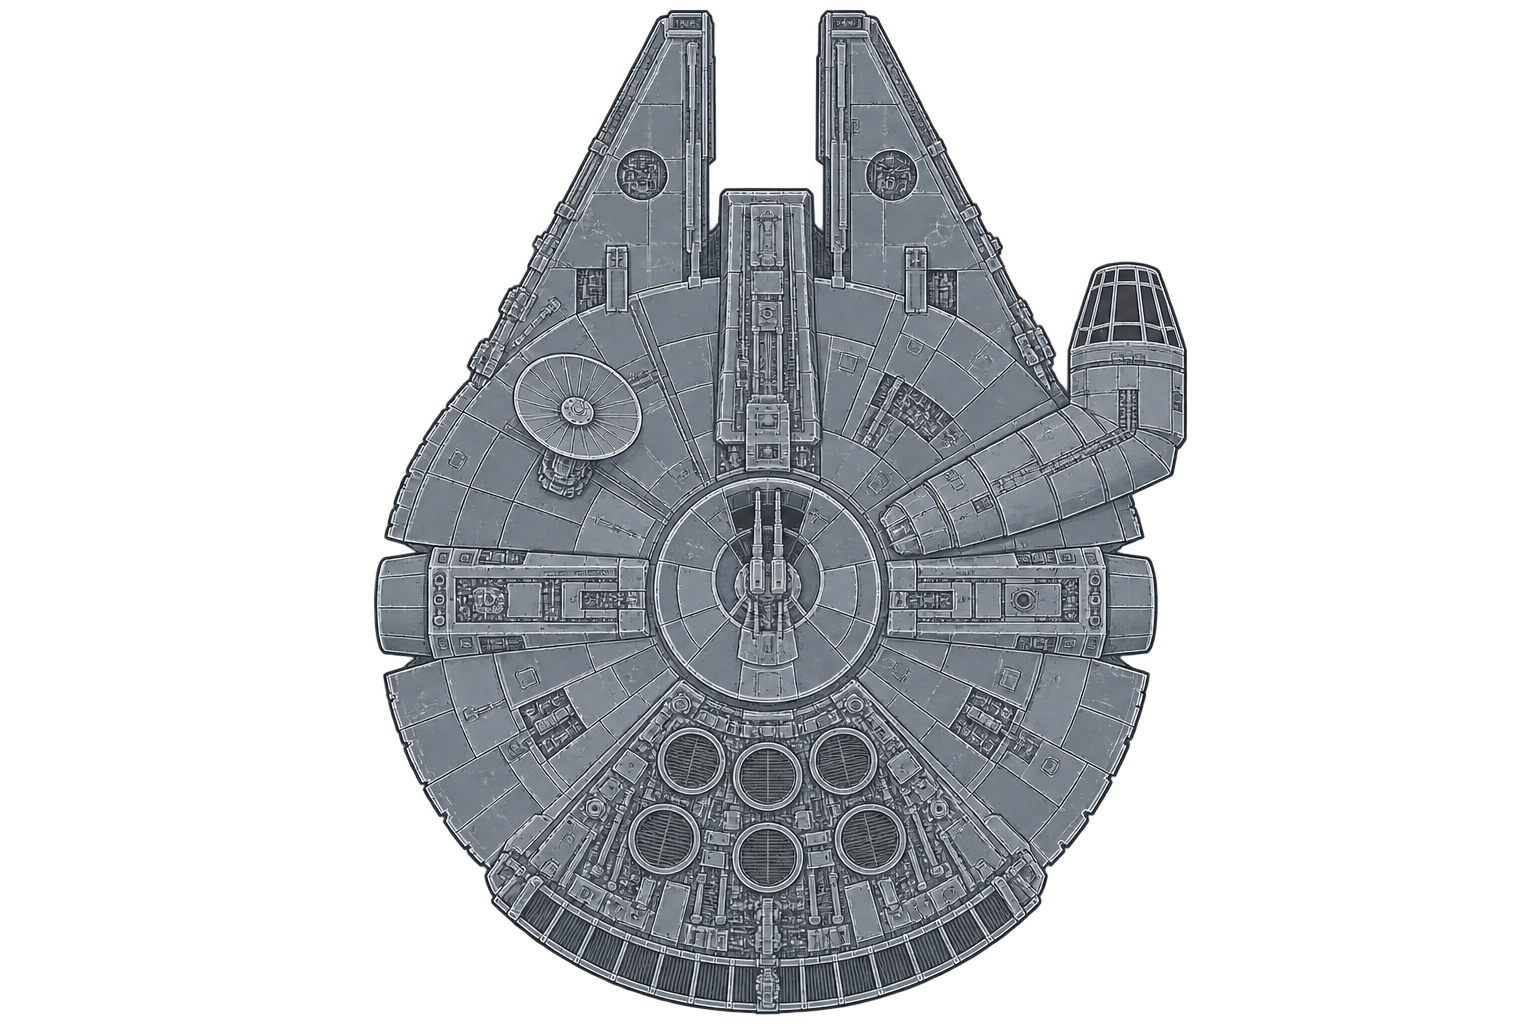
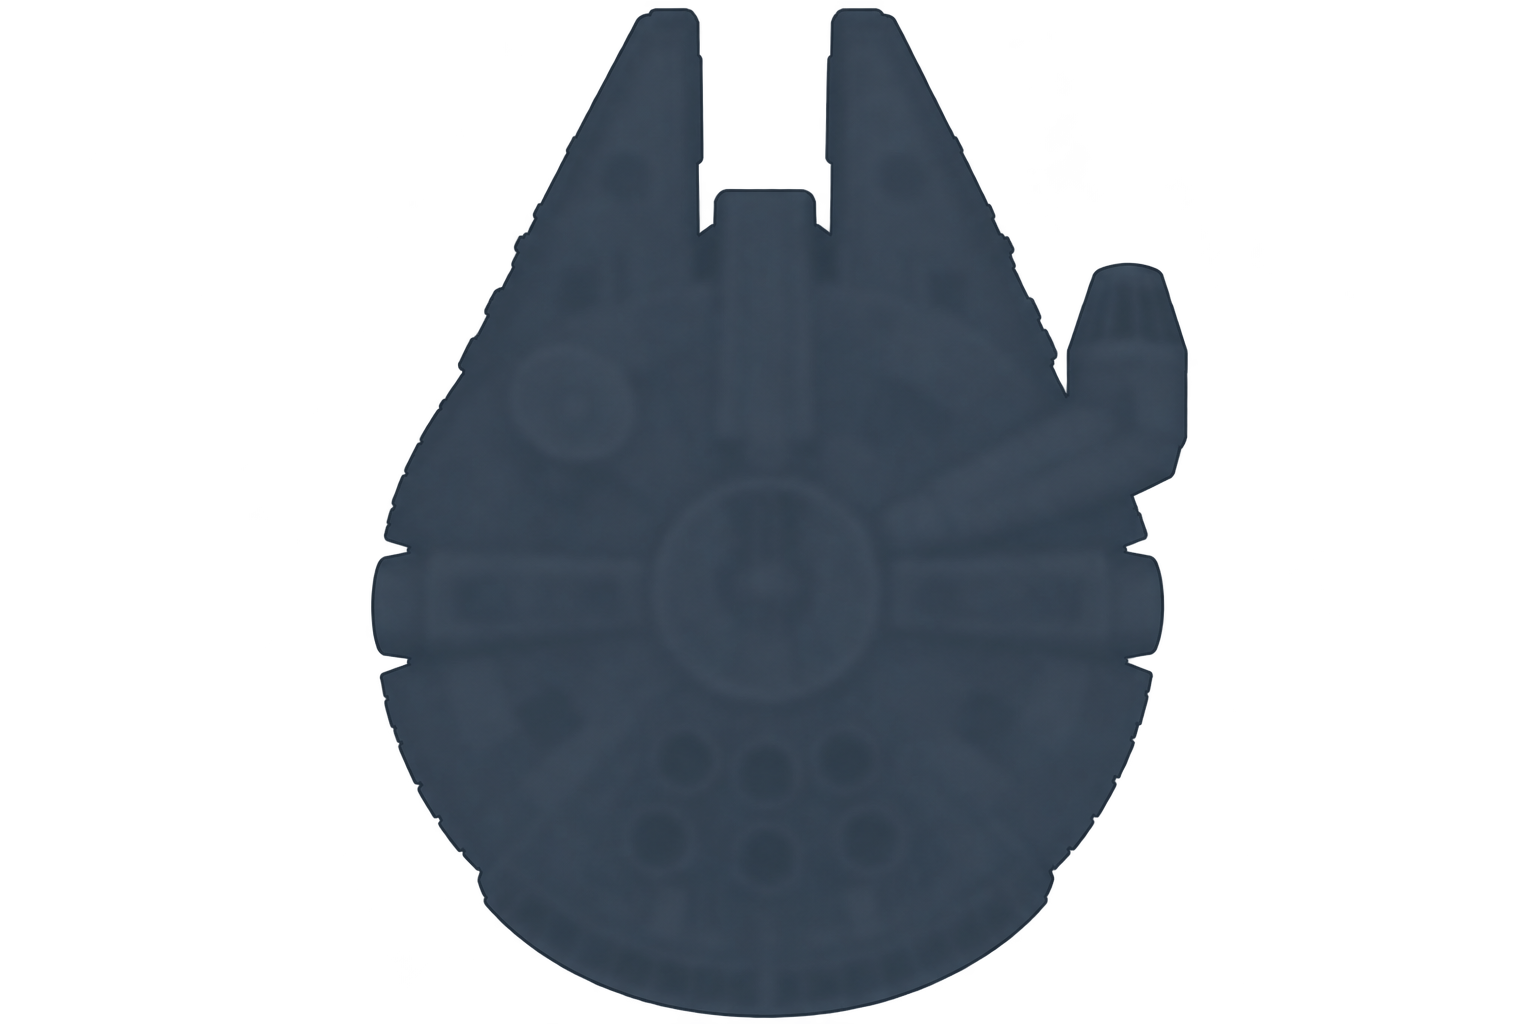
Refine Habitat outline and temperature colors

diff --git a/people/petros_the_space_larper/demo-data/habitat/habitat.js b/people/petros_the_space_larper/demo-data/habitat/habitat.js
@@ -6,6 +6,16 @@ const sensors = [
 ];
 
 const states = { normal: 'Normal', warning: 'Warning', danger: 'Danger', 'no-reading': 'No reading' };
+const temperatureScale = [
+  [16, '#8ba4ff'],
+  [19, '#6fceff'],
+  [22, '#f4e27d'],
+  [24, '#ffad63'],
+  [27, '#ff8665'],
+  [30, '#ff6d8b'],
+];
+const coldLimit = temperatureScale[0][0];
+const hotLimit = temperatureScale.at(-1)[0];
 const sessionKey = 'pulse-habitat-preview-token';
 const escape = value => String(value ?? '').replace(/[&<>"']/g, char => ({
   '&': '&amp;', '<': '&lt;', '>': '&gt;', '"': '&quot;', "'": '&#39;',
@@ -14,6 +24,28 @@ const utc = iso => iso ? iso.slice(11, 16) : '—';
 const hasValue = value => Number.isFinite(value);
 const number = (value, digits) => hasValue(value) ? value.toFixed(digits) : '—';
 const readingValue = (reading, sensor) => `${number(reading?.value, sensor.digits)}<small>${escape(reading?.unit ?? sensor.unit)}</small>`;
+
+function temperatureColor(value) {
+  if (value <= coldLimit) return temperatureScale[0][1];
+  if (value >= hotLimit) return temperatureScale.at(-1)[1];
+  const upper = temperatureScale.findIndex(([degrees]) => value <= degrees);
+  const [low, cold] = temperatureScale[upper - 1];
+  const [high, hot] = temperatureScale[upper];
+  const fraction = (value - low) / (high - low);
+  const channels = [1, 3, 5].map(offset => {
+    const start = Number.parseInt(cold.slice(offset, offset + 2), 16);
+    const end = Number.parseInt(hot.slice(offset, offset + 2), 16);
+    return Math.round(start + (end - start) * fraction);
+  });
+  return `rgb(${channels.join(' ')})`;
+}
+
+const heatStops = temperatureScale.map(([degrees, color]) => `${color} ${(degrees - coldLimit) / (hotLimit - coldLimit) * 100}%`);
+const heatLegend = `<figure class="heat-scale">
+  <figcaption>Temperature color scale</figcaption>
+  <div class="heat-scale-bar" style="background: linear-gradient(90deg, ${heatStops.join(', ')})" aria-hidden="true"></div>
+  <div class="heat-scale-labels"><span>≤ ${coldLimit} °C</span><span>${(coldLimit + hotLimit) / 2} °C</span><span>≥ ${hotLimit} °C</span></div>
+</figure>`;
 
 const sensorGroup = document.querySelector('#sensors');
 const trend = document.querySelector('#trend');
@@ -58,6 +90,11 @@ function historyChart(sensor, history, endTime) {
   const max = top + padding;
   const x = time => (46 + 311 * Math.max(0, Math.min(1, (Date.parse(time) - start) / (end - start)))).toFixed(2);
   const y = value => (111 - 96 * (value - min) / (max - min)).toFixed(2);
+  const thermal = sensor.id === 'temperature';
+  const gradientValues = [min, ...temperatureScale.map(([degrees]) => degrees).filter(degrees => degrees > min && degrees < max), max];
+  const chartGradient = thermal ? `<defs><linearGradient id="temperature-chart-gradient" gradientUnits="userSpaceOnUse" x1="0" x2="0" y1="111" y2="15" color-interpolation="sRGB">
+    ${gradientValues.map(degrees => `<stop offset="${(degrees - min) / (max - min)}" stop-color="${temperatureColor(degrees)}"/>`).join('')}
+  </linearGradient></defs>` : '';
 
   // Each null in the replay ends a segment. Isolated samples remain visible as dots.
   const segments = [];
@@ -72,14 +109,14 @@ function historyChart(sensor, history, endTime) {
   if (segment.length) segments.push(segment);
 
   const last = present.at(-1);
-  const circle = ([time, value], radius) => `<circle cx="${x(time)}" cy="${y(value)}" r="${radius}"/>`;
+  const circle = ([time, value], radius) => `<circle cx="${x(time)}" cy="${y(value)}" r="${radius}"${thermal ? ` style="fill: ${temperatureColor(value)}"` : ''}/>`;
   const trace = segments.map(part => part.length === 1 ? circle(part[0], 2.75) :
     `<path d="${part.map(([time, value], i) => `${i ? 'L' : 'M'}${x(time)} ${y(value)}`).join(' ')}"/>`).join('');
   const grid = [min, (min + max) / 2, max].map(value =>
     `<line x1="46" x2="357" y1="${y(value)}" y2="${y(value)}"/><text x="39" y="${Number(y(value)) + 3}" text-anchor="end">${number(value, sensor.digits)}</text>`).join('');
   const startLabel = utc(new Date(start).toISOString());
-  return `<svg class="trend-chart" viewBox="0 0 365 136" role="img" aria-label="${sensor.name} during the last 24 mission hours in ${escape(history.unit)}, ${present.length} archived observations, from ${number(bottom, sensor.digits)} to ${number(top, sensor.digits)}">
-    ${grid}${trace}${circle(last, 3.75)}
+  return `<svg class="trend-chart" viewBox="0 0 365 136"${thermal ? ' style="--trace: url(#temperature-chart-gradient)"' : ''} role="img" aria-label="${sensor.name} during the last 24 mission hours in ${escape(history.unit)}, ${present.length} archived observations, from ${number(bottom, sensor.digits)} to ${number(top, sensor.digits)}">
+    ${chartGradient}${grid}${trace}${circle(last, 3.75)}
     <text x="46" y="130">−24 h · ${startLabel}</text><text x="357" y="130" text-anchor="end">Now · ${utc(endTime)} UTC</text>
   </svg>`;
 }
@@ -105,6 +142,7 @@ function renderTrend() {
   </div>
   <p class="trend-value">${readingValue(reading, sensor)}</p>
   ${historyChart(sensor, history, replay?.now.at)}
+  ${active === 'temperature' ? heatLegend : ''}
   ${source ? `<div class="trend-source"><p>${escape(source)}</p><p>${hasValue(reading?.value) ? `Measured at ${utc(reading.measuredAt)} UTC` : 'No current sample'}${reading?.recoveryUnverified ? ' · Recovery unverified' : ''}</p></div>` : ''}`;
 }
 
@@ -169,6 +207,9 @@ async function loadReplay() {
 
 function renderReadings() {
   const { now, alerts } = replay;
+  const temperature = now.readings.find(({ metric }) => metric === 'temperature')?.value;
+  if (hasValue(temperature)) document.documentElement.style.setProperty('--temperature', temperatureColor(temperature));
+  else document.documentElement.style.removeProperty('--temperature');
   clock.dateTime = now.at;
   clock.textContent = `${now.at.slice(11, 19)} UTC`;
   for (const button of sensorGroup.querySelectorAll('button')) {

diff --git a/people/petros_the_space_larper/demo-data/habitat/habitat.css b/people/petros_the_space_larper/demo-data/habitat/habitat.css
@@ -8,10 +8,12 @@
   --muted: #a0afc1;
   --dim: #8595a8;
   --accent: #83dbbf;
-  --co2: #82e0b7;
-  --humidity: #6ed7ff;
-  --temperature: #ffc47e;
-  --radiation: #d2afff;
+  --falcon-blue: #5ab0ff;
+  --co2: #83e8aa;
+  --humidity: #63ddf5;
+  --temperature: #a0afc1;
+  --radiation: #ddaaff;
+  --warning: #ffc47e;
 }
 
 *, *::before, *::after { box-sizing: border-box; }
@@ -63,7 +65,12 @@ h1 { font-size: clamp(2.125rem, 4vw, 3.325rem); line-height: 1.07; font-weight: 
   background-size: 26px 26px, 26px 26px, auto;
   background-position: center;
 }
-.falcon { position: absolute; width: 83%; height: auto; top: 50%; left: 50%; translate: -50% -50%; mix-blend-mode: screen; opacity: .85; pointer-events: none; }
+.falcon { position: absolute; width: 83%; height: auto; top: 50%; left: 50%; translate: -50% -50%; overflow: visible; pointer-events: none; }
+.falcon-interior { filter: blur(2px); opacity: .54; }
+.falcon-blue { flood-color: var(--falcon-blue); }
+.falcon-outline { opacity: .8; animation: falcon-pulse 2.8s ease-in-out infinite; }
+@keyframes falcon-pulse { 0%, 100% { opacity: .34; } 50% { opacity: 1; } }
+@media (prefers-reduced-motion: reduce) { .falcon-outline { animation: none; } }
 .sensor-wires { position: absolute; inset: 0; width: 100%; height: 100%; pointer-events: none; }
 .sensor-wire { color: var(--metric); opacity: .72; }
 .sensor-wire.active { opacity: 1; }
@@ -104,16 +111,20 @@ h1 { font-size: clamp(2.125rem, 4vw, 3.325rem); line-height: 1.07; font-weight: 
 .trend-value small { color: var(--muted); font-size: 12px; font-weight: 450; letter-spacing: 0; }
 .reading-state, .alert-count { border-radius: 20px; border: 1px solid var(--edge); padding: 4px 8px; color: var(--muted); font-size: 10px; white-space: nowrap; }
 .reading-state[data-state="normal"] { color: var(--co2); }
-.reading-state[data-state="warning"], .alert-count[data-open="true"] { color: var(--temperature); }
+.reading-state[data-state="warning"], .alert-count[data-open="true"] { color: var(--warning); }
 .reading-state[data-state="danger"] { color: #ff9caa; }
 .trend-chart { display: block; width: 100%; height: auto; margin-top: 10px; overflow: visible; }
 .trend-chart line { stroke: var(--edge); }
-.trend-chart path { fill: none; stroke: var(--metric); stroke-width: 2; stroke-linecap: round; stroke-linejoin: round; vector-effect: non-scaling-stroke; }
+.trend-chart path { fill: none; stroke: var(--trace, var(--metric)); stroke-width: 2; stroke-linecap: round; stroke-linejoin: round; vector-effect: non-scaling-stroke; }
 .trend-chart circle { fill: var(--metric); stroke: var(--panel); stroke-width: 1.1; }
 .trend-chart text { fill: var(--muted); font-size: 10px; font-variant-numeric: tabular-nums; }
 .chart-empty { display: grid; min-height: 132px; place-items: center; margin: 12px 0; padding: 12px; border: 1px dashed var(--edge); border-radius: 6px; text-align: center; color: var(--muted); font-size: 12px; }
 .trend-source { border-top: 1px solid var(--edge); margin-top: 8px; padding-top: 10px; color: var(--muted); font-size: 10px; line-height: 1.5; }
 .trend-source p + p { margin-top: 3px; }
+.heat-scale { margin: 13px 0 4px; }
+.heat-scale figcaption { margin-bottom: 6px; color: var(--muted); font-size: 10px; }
+.heat-scale-bar { height: 5px; border-radius: 10px; }
+.heat-scale-labels { display: flex; justify-content: space-between; margin-top: 5px; color: var(--muted); font-size: 10px; font-variant-numeric: tabular-nums; }
 .alerts { color: var(--muted); font-size: 12px; padding: 13px 19px; }
 .alert { display: flex; gap: 8px; justify-content: space-between; align-items: center; }
 .alert + .alert { border-top: 1px solid var(--edge); margin-top: 10px; padding-top: 10px; }

diff --git a/people/petros_the_space_larper/demo-data/habitat/index.html b/people/petros_the_space_larper/demo-data/habitat/index.html
@@ -34,7 +34,24 @@
           <span class="technical">Dorsal view</span>
         </div>
         <div class="map-stage" id="map-stage">
-          <img class="falcon" src="./millennium-falcon.png" width="1536" height="1024" alt="Technical sketch of the Millennium Falcon viewed from above, showing its forward mandibles, starboard cockpit and rear engine arc.">
+          <svg class="falcon" viewBox="0 0 1536 1024" role="img" aria-label="Millennium Falcon silhouette seen from above, with a shaded interior and a blue outline">
+            <defs>
+              <filter id="falcon-edge" x="-5%" y="-8%" width="110%" height="116%">
+                <feComponentTransfer in="SourceAlpha" result="silhouette">
+                  <feFuncA type="discrete" tableValues="0 0 1 1"/>
+                </feComponentTransfer>
+                <feMorphology in="silhouette" operator="dilate" radius="3" result="expanded"/>
+                <feMorphology in="silhouette" operator="erode" radius="1" result="inset"/>
+                <feComposite in="expanded" in2="inset" operator="out" result="edge"/>
+                <feFlood class="falcon-blue"/>
+                <feComposite in2="edge" operator="in" result="blue-edge"/>
+                <feGaussianBlur in="blue-edge" stdDeviation="6" result="glow"/>
+                <feMerge><feMergeNode in="glow"/><feMergeNode in="blue-edge"/></feMerge>
+              </filter>
+            </defs>
+            <image class="falcon-interior" href="./millennium-falcon.png" width="1536" height="1024"/>
+            <image class="falcon-outline" href="./millennium-falcon.png" width="1536" height="1024" filter="url(#falcon-edge)"/>
+          </svg>
           <svg class="sensor-wires" id="sensor-wires" viewBox="0 0 1000 680" preserveAspectRatio="none" aria-hidden="true"></svg>
           <div role="group" aria-label="Environmental readings" id="sensors"></div>
         </div>

diff --git a/people/petros_the_space_larper/demo-data/habitat/README.md b/people/petros_the_space_larper/demo-data/habitat/README.md
@@ -8,7 +8,9 @@ Hover or focus a sensor to see its last 24 mission hours. Click or tap to keep t
 | --- | --- | --- |
 | CO₂ | Crew cockpit | Mint |
 | Humidity | Water recycler | Cyan |
-| Temperature | Aft engineering | Amber |
+| Temperature | Aft engineering | Continuous blue-to-red scale, 16–30 °C |
 | Radiation | Forward hull | Violet |
+
+The blue silhouette pulses while the interior stays soft. Browsers set to reduced motion show a steady outline. The temperature scale colors the current reading, map marker and each height of the chart. Values at or outside 16–30 °C use the nearest endpoint color. The API's alert state stays separate from the reading color.
 
 Pending Petros's review before integration into the main Habitat screen.

diff --git a/people/petros_the_space_larper/status.md b/people/petros_the_space_larper/status.md
@@ -14,6 +14,7 @@
 
 ## Done
 
+- Refined the Habitat preview with a pulsing blue silhouette and a continuous Celsius color scale on the temperature marker, reading and chart.
 - Built a standalone Habitat preview with four color-coded sensor locations, replay charts for hover and keyboard focus, selection for touch, and the existing cabin alerts.
 - Installed GitHub CLI, signed in, and cloned the team repo.
 - Documented astronaut measurement methods, dataset access, and radiation exposure in [astronaut-health-research.md](astronaut-health-research.md).
